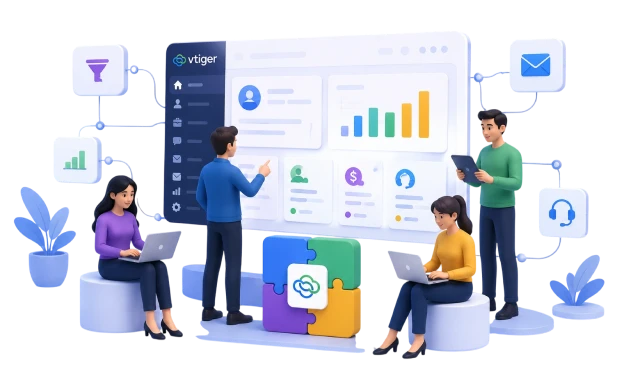
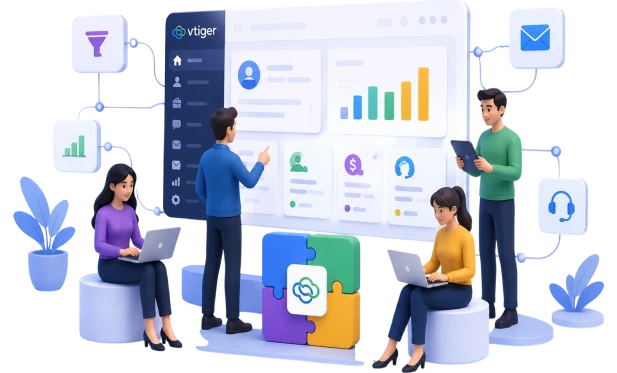
update-height-all-main-pages

diff --git a/src/app/components/PlatformExpertise/AIServicesAgency/ClaudeAIIntegration/ClaudeAIIntegration.jsx b/src/app/components/PlatformExpertise/AIServicesAgency/ClaudeAIIntegration/ClaudeAIIntegration.jsx
@@ -26,11 +26,14 @@ function ClaudeAIIntegration() {
         heading1="Custom Claude AI"
         heading2="Solutions For Businesses"
         // bgImag="/AIIntegration/ClaudeAI/claudeHero.webp"
-        bgImag="/PlatformExpertise/ArtificialIntelligencyAgency/claudeHero.webp"
+        bgImag="/PlatformExpertise/ArtificialIntelligencyAgency/claudeHero1.webp"
         description1="Claude AI helps businesses automate workflows, process information, generate content, and improve operational efficiency through advanced AI capabilities."
         description2="At Humans of Web, we integrate Claude AI into your business systems, helping teams streamline operations, automate repetitive tasks, and improve decision-making."
         altText="Claude AI Integration Agency"
         breakLine
+        objectType="object-contain md:object-cover"
+        mobileHeight="h-[150px]"
+
       />
 
       <TrustedBy padding={""} />

diff --git a/src/app/components/common/Services/HeroSectionServices/HeroSectionServices.jsx b/src/app/components/common/Services/HeroSectionServices/HeroSectionServices.jsx
@@ -17,7 +17,8 @@ export default function HeroSectionServices({
   headingSectionWidth = "max-w-[600px]",
   altText = "Industry Expertise",
   breakLine = false,
-  objectType='object-cover'
+  objectType='object-cover',
+  mobileHeight='h-[250px]'
 }) {
   const [proposalOpen, setProposalOpen] = useState(false);
 
@@ -75,7 +76,7 @@ export default function HeroSectionServices({
               transition={{ duration: 0.7, delay: 0.15 }}
               className="relative flex items-center justify-center"
             >
-              <div className="relative h-[250px] w-full max-w-full overflow-hidden rounded-[32px] md:h-[370px] lg:h-[325px] xl:h-[370px]">
+              <div className={`relative ${mobileHeight} w-full max-w-full overflow-hidden rounded-[32px] md:h-[370px] lg:h-[325px] xl:h-[370px]`}>
 
                 <Image
                   src={bgImag}

diff --git a/src/app/components/IndustryExpertise/MainPage/IndustryDeepDive/IndustryDeepDive.jsx b/src/app/components/IndustryExpertise/MainPage/IndustryDeepDive/IndustryDeepDive.jsx
@@ -99,10 +99,18 @@ function IndustryRow({ industry, reverse, index }) {
           ))}
         </div>
 
-        <GetYourFreeConsultationButton
+        <div className='hidden md:flex justify-start'>
+          <GetYourFreeConsultationButton
           href={href}
           text={`Explore ${label.split(" ")[0]} Strategy`}
         />
+        </div>
+        <div className='flex md:hidden justify-center'>
+          <GetYourFreeConsultationButton
+          href={href}
+          text={`${label.split(" ")[0]} Strategy`}
+        />
+        </div>
       </div>
     </div>
   );

diff --git a/src/app/components/IndustryExpertise/CRMAgency/CRMAgency.jsx b/src/app/components/IndustryExpertise/CRMAgency/CRMAgency.jsx
@@ -24,7 +24,8 @@ function CRMAgency() {
         description2="At Humans of Web, we help businesses streamline operations through CRM customization, automation, and smart integrations to improve efficiency."
         altText="CRM Customisation Agency"
         breakLine
-        // objectType="object-contain md:object-cover lg:object-contain"
+       objectType="object-contain md:object-cover"
+        mobileHeight="h-[150px]"
       />
 
       <TrustedBy padding={""} />

diff --git a/src/app/components/IndustryExpertise/DentalAgency/DentalAgency.jsx b/src/app/components/IndustryExpertise/DentalAgency/DentalAgency.jsx
@@ -29,6 +29,8 @@ function DentalAgency() {
         description2="At Humans of Web, we help dental clinics connect with patients through SEO, local optimization, and smart advertising to drive visibility, bookings, and consistent growth."
         altText="dentalAgency Agency"
         breakLine
+        objectType="object-contain md:object-cover"
+        mobileHeight="h-[150px]"
       />
       <TrustedBy padding={""} />
       <ServicesTwoGridDescriptionAndImage

diff --git a/src/app/components/PlatformExpertise/AIServicesAgency/KiloCodeAI/KiloCodeAI.jsx b/src/app/components/PlatformExpertise/AIServicesAgency/KiloCodeAI/KiloCodeAI.jsx
@@ -28,7 +28,8 @@ function KiloCodeAI() {
         description2="At Humans of Web, we help businesses implement KiloCode workflows that improve coding efficiency, automation, and development scalability."
         altText="KiloCode AI Solutions"
         breakLine
-        objectType="object-contain md:object-cover"
+       objectType="object-contain md:object-cover"
+        mobileHeight="h-[150px]"
       />
 
       <TrustedBy padding={""} />

diff --git a/src/app/components/PlatformExpertise/CRMCustomization/HubspotCRMCustomization/HubspotCRMCustomization.jsx b/src/app/components/PlatformExpertise/CRMCustomization/HubspotCRMCustomization/HubspotCRMCustomization.jsx
@@ -30,6 +30,8 @@ function HubspotCRMCustomization() {
         description2="At Humans of Web, we customize HubSpot CRM around your business operations, helping teams automate workflows, improve lead management, and scale customer engagement."
         altText="HubSpot CRM Customization Agency"
         breakLine
+        objectType="object-contain md:object-cover"
+        mobileHeight="h-[150px]"
       />
 
       <TrustedBy padding={""} />

diff --git a/src/app/components/PlatformExpertise/CRMCustomization/VtigerCRMCustomization/VtigerCRMCustomization.jsx b/src/app/components/PlatformExpertise/CRMCustomization/VtigerCRMCustomization/VtigerCRMCustomization.jsx
@@ -30,6 +30,8 @@ function VtigerCRMCustomization() {
         description2="At Humans of Web, we customize Vtiger CRM around your business operations, helping teams automate tasks, improve visibility, and streamline customer management."
         altText="Vtiger CRM Customization Agency"
         breakLine
+        objectType="object-contain md:object-cover"
+        mobileHeight="h-[150px]"
       />
 
       <TrustedBy padding={""} />

diff --git a/src/app/components/PlatformExpertise/CMSAgency/WordpressCMSAgency/WordpressCMSAgency.jsx b/src/app/components/PlatformExpertise/CMSAgency/WordpressCMSAgency/WordpressCMSAgency.jsx
@@ -29,6 +29,8 @@ function WordpressCMSAgency() {
         description2="At Humans of Web, we help WordPress businesses improve visibility, optimize user experience, and drive growth through SEO, ads, and conversion-focused strategies."
         altText="WordPress Marketing Agency"
         breakLine
+        objectType="object-contain md:object-cover"
+        mobileHeight="h-[150px]"
       />
 
       <TrustedBy padding={""} />

diff --git a/src/app/components/IndustryExpertise/OphthalmologyAgency/OphthalmologyAgency.jsx b/src/app/components/IndustryExpertise/OphthalmologyAgency/OphthalmologyAgency.jsx
@@ -27,6 +27,8 @@ function OphthalmologyAgency() {
         description2="At Humans of Web, we help ophthalmology clinics connect with patients through SEO, local visibility, and smart campaigns to drive appointments and consistent growth."
         altText="Ophthalmology Agency"
         breakLine
+        objectType="object-contain md:object-cover"
+        mobileHeight="h-[150px]"
       />
 
       <TrustedBy padding={""} />

diff --git a/src/app/components/IndustryExpertise/ChiropractorAgency/ChiropractorAgency.jsx b/src/app/components/IndustryExpertise/ChiropractorAgency/ChiropractorAgency.jsx
@@ -24,6 +24,8 @@ function ChiropractorAgency() {
         description2="At Humans of Web, we help chiropractic clinics connect with patients through SEO, local visibility, and smart campaigns to drive bookings and steady growth."
         altText="Chiropractor Marketing Agency"
         breakLine
+        objectType="object-contain md:object-cover"
+        mobileHeight="h-[150px]"
       />
 
       <TrustedBy padding={""} />

diff --git a/src/app/components/PlatformExpertise/AIServicesAgency/BoltAIAgency/BoltAIAgency.jsx b/src/app/components/PlatformExpertise/AIServicesAgency/BoltAIAgency/BoltAIAgency.jsx
@@ -28,6 +28,8 @@ function BoltAIAgency() {
         description2="At Humans of Web, we help businesses use Bolt AI for scalable product development, workflow automation, rapid prototyping, and AI-powered digital experiences."
         altText="Bolt AI Development Agency"
         breakLine
+        objectType="object-contain md:object-cover"
+        mobileHeight="h-[150px]"
       />
 
       <TrustedBy padding={""} />
